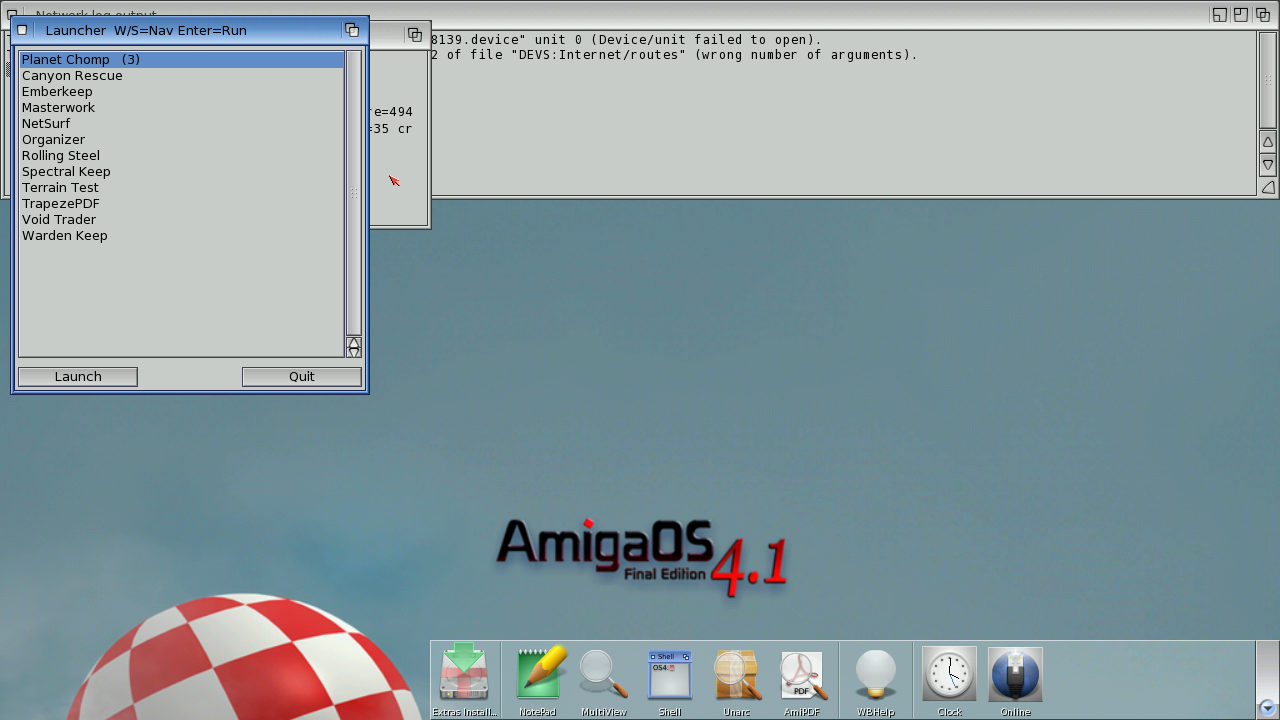
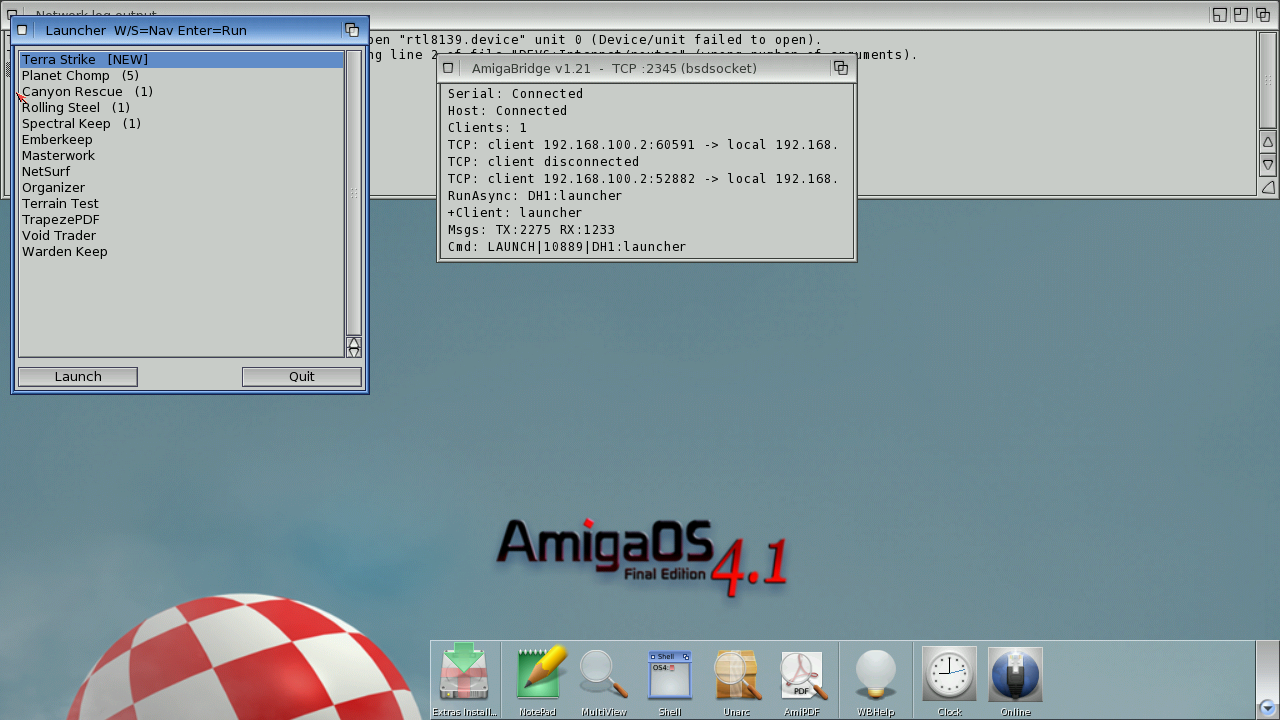
docs: Terra Strike in the OS4 launcher list; when the launcher rereads it

Changed region(s): [[0.2812, 0.0306, 0.6875, 0.3667], [0.0, 0.0611, 0.125, 0.3667], [0.5625, 0.1833, 0.6562, 0.2139]]

diff --git a/docs/machines.md b/docs/machines.md
@@ -83,13 +83,14 @@ its menu from `DH1:launcher.list`, one `Title|program [arguments]` per line:
 Planet Chomp|DH1:planet_chomp FULLSCREEN
 Rolling Steel|DH1:rolling_steel/rolling_steel FULLSCREEN
 Spectral Keep|DH1:spectral_keep/spectral_keep FULLSCREEN
+Terra Strike|DH1:terra_strike/terra_strike FULLSCREEN
 Void Trader|DH1:void_trader
 Canyon Rescue|DH1:canyon_rescue
 NetSurf|DH1:NetSurf/NetSurf
 ```
 
-Planet Chomp, Rolling Steel and Spectral Keep take `FULLSCREEN` and then open
-a screen of their own. F or F10 switches back to a window while playing.
+Planet Chomp, Rolling Steel, Spectral Keep and Terra Strike take `FULLSCREEN`
+and then open a screen of their own. F or F10 switches back to a window while playing.
 
 **Paths:**
 
@@ -100,6 +101,9 @@ a screen of their own. F or F10 switches back to a window while playing.
 | `os4_dir` | `~/AmigaOS4` (handed to the script as `OS4_DIR`) |
 | `dev_hdf` | `{os4_dir}/amigaos4-dev.hdf`, which OS4 sees as `DH1:` |
 | `xdftool` | amitools' `xdftool` (`pip install amitools`) |
+
+The launcher reads the list when it starts. After changing it, quit the
+launcher and run `DH1:launcher` again (or reboot).
 
 **One-time setup:**
 
